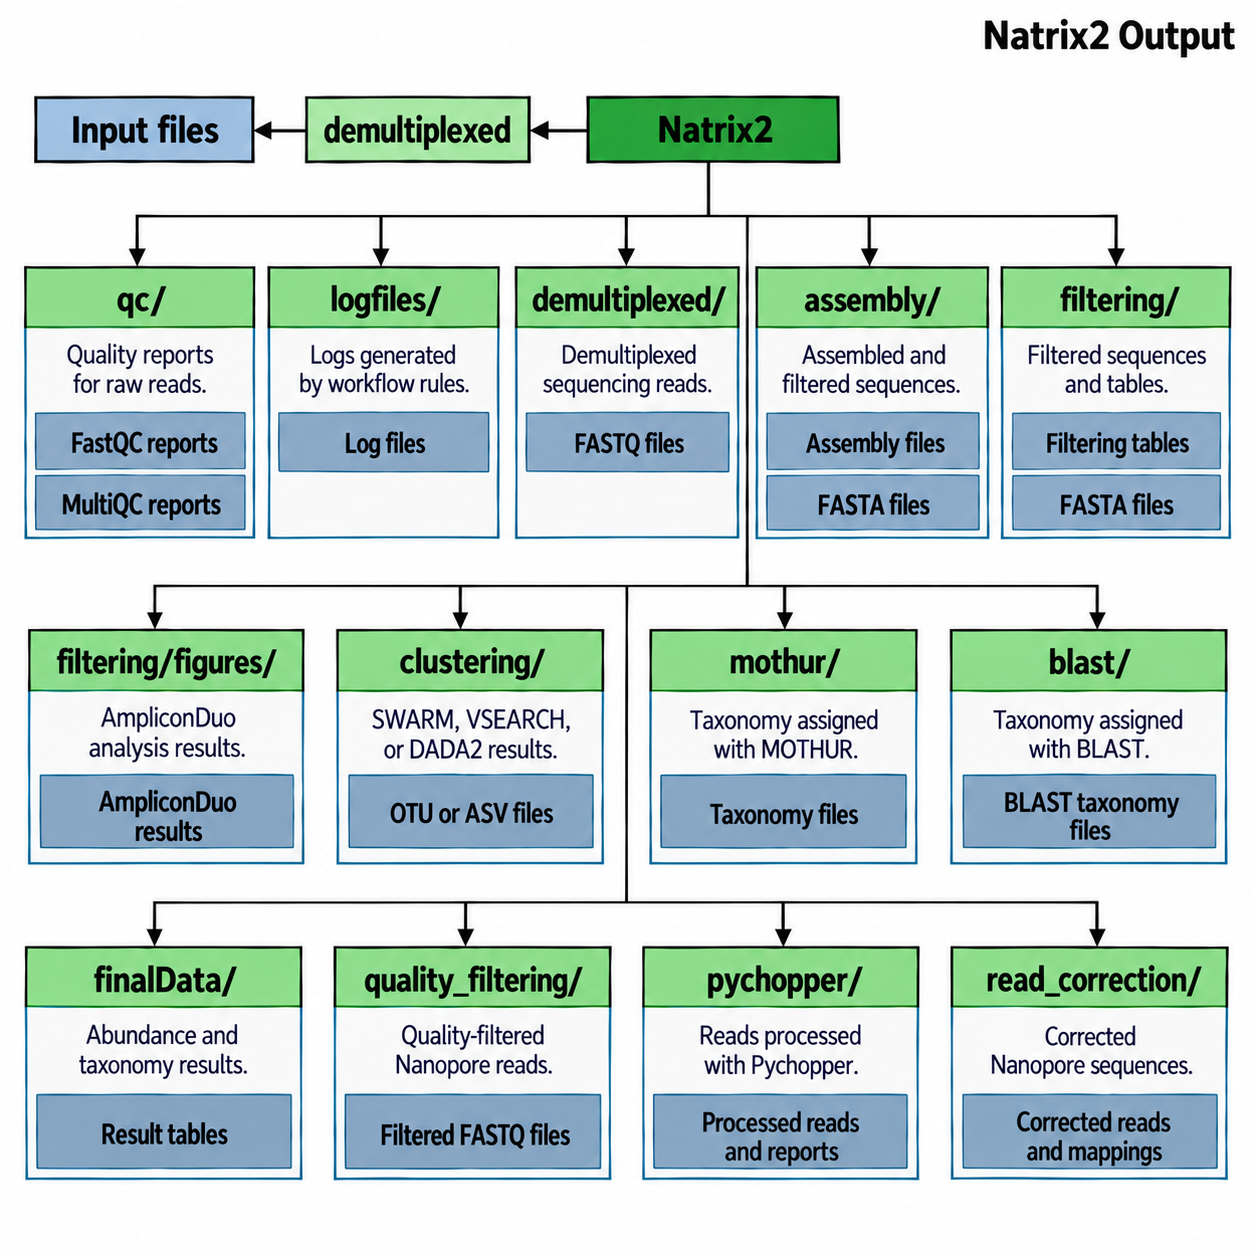
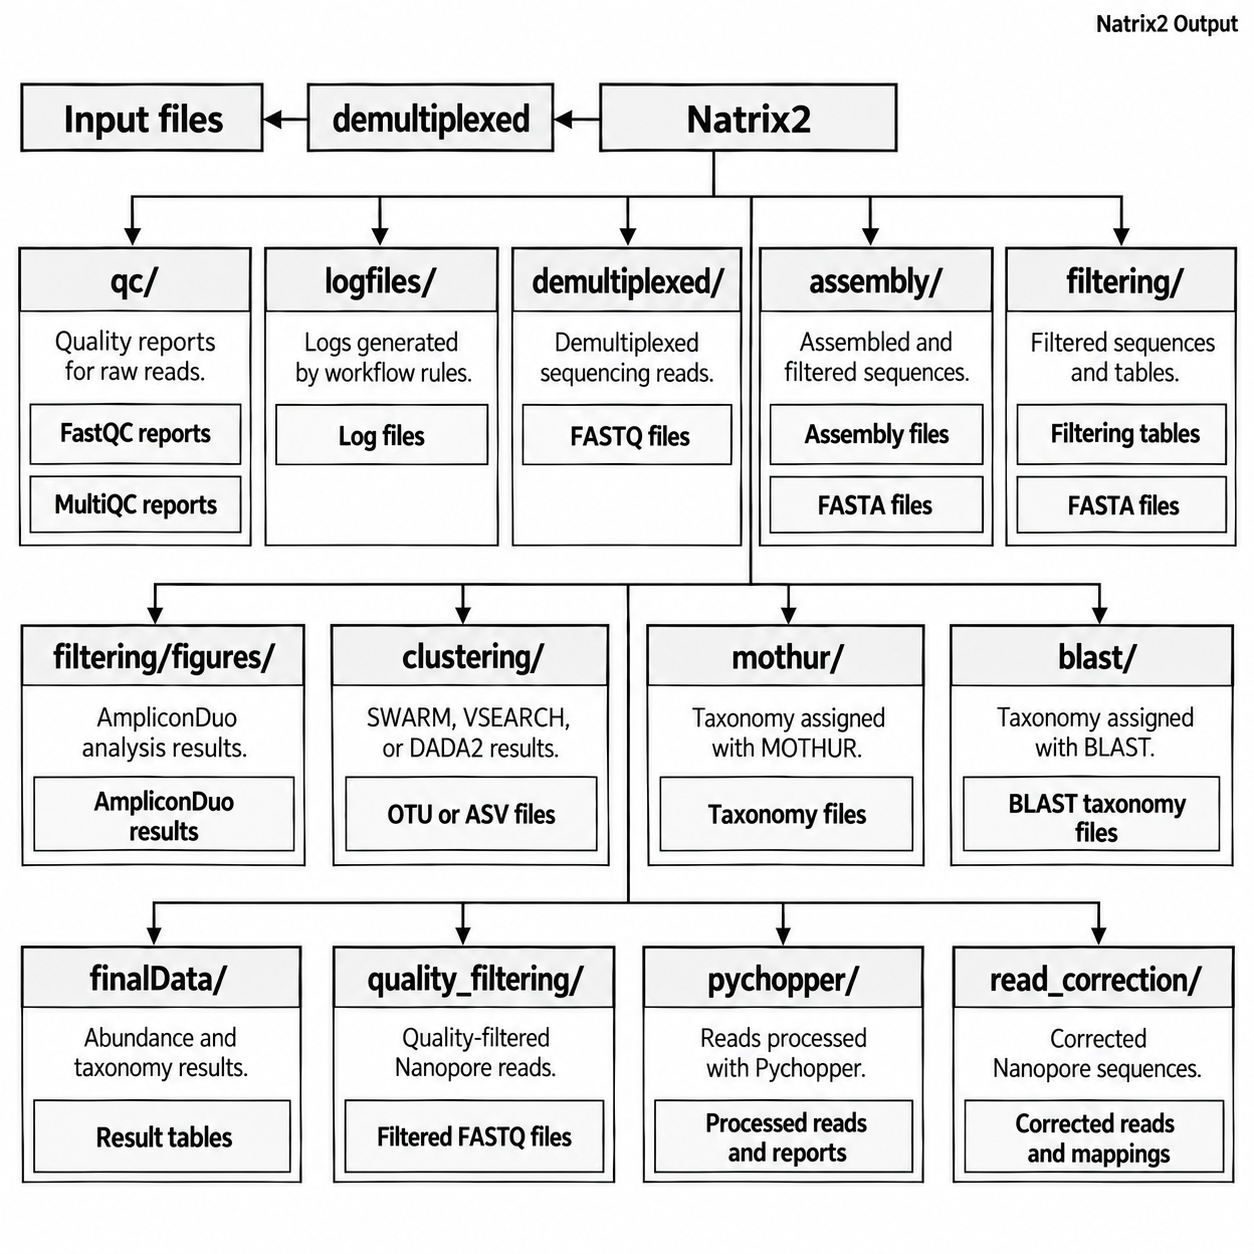
Update

diff --git a/README.md b/README.md
@@ -2,7 +2,7 @@
 <img src="documentation/images/lightmode/logo.png" alt="logo" width="500"/>
 </p>
 
-**Natrix2 — Bioinformatics Pipeline for Amplicon Data**
+**Natrix2 — Pipeline for Amplicon Data — [Citation](#citation)**
 
 ---
 
@@ -14,9 +14,13 @@ Natrix2 is an open-source bioinformatics pipeline for the preprocessing of long 
 
 ### Branch Selection
 
-To access the latest features and ongoing developments, it is recommended to use the [dev branch](https://github.com/dbeisser/Natrix2/tree/dev) of Natrix2, which contains recent updates and patches not yet available in the [main branch](https://github.com/dbeisser/Natrix2/tree/main). The main branch represents the stable version of the pipeline, providing validated and tested code suitable for routine analyses and reproducible workflows, while the dev branch is intended for testing and early access to new features.
+**Branches: [main](https://github.com/dbeisser/Natrix2/tree/main) — [dev](https://github.com/dbeisser/Natrix2/tree/dev)** — To access the latest features and ongoing developments, it is recommended to use the dev branch of Natrix2, which contains recent updates and patches not yet available in the main branch. The main branch represents the stable version of the pipeline, providing validated and tested code suitable for routine analyses and reproducible workflows, while the dev branch is intended for testing and early access to new features.
 
 ---
+
+### Natrix2 Modules
+
+Natrix2 consists of several interconnected modules covering the main steps of amplicon data processing. The available modules provide dedicated workflows for Illumina and Nanopore sequencing data.
 
 ![DAG of an example workflow](documentation/images/lightmode/combined_graph.png)
 **Fig. 1**: DAG of the Natrix2 workflow: Schematic representation of the Natrix2 workflow. The processing of two split samples using AmpliconDuo is depicted. The color scheme represents the main steps, dashed lines outline the OTU variant, and dotted lines outline the ASV variant of the workflow. Stars depict updates to the original Natrix workflow. Details on the ONT part are depicted in Fig. 2.
@@ -64,6 +68,7 @@ To access the latest features and ongoing developments, it is recommended to use
   Installation example (Debian/Ubuntu):
 
   ```bash
+  # Install GNU Screen
   apt-get install screen
   ```
 
@@ -76,11 +81,13 @@ Using a terminal multiplexer is strongly recommended for running Natrix2, especi
 Conda can be installed via the [Anaconda](https://www.anaconda.com/) or [Miniconda](https://conda.io/en/latest/miniconda.html) platforms, with Miniconda3 being recommended for most users; on Linux systems, it can be obtained using:
 
 ```shell
-wget https://repo.anaconda.com/miniconda/Miniconda3-latest-Linux-x86_64.sh # Download Miniconda3 installer
+# Download Miniconda3 installer
+wget https://repo.anaconda.com/miniconda/Miniconda3-latest-Linux-x86_64.sh
 ```
 
 ```shell
-bash Miniconda3-latest-Linux-x86_64.sh # Run Miniconda3 installer
+# Run Miniconda3 installer
+bash Miniconda3-latest-Linux-x86_64.sh
 ```
 
 Dependencies will be automatically installed using Conda environments and can be found in the corresponding `environment` files in the `envs` folder and the `natrix2.yaml` file in the root directory of the pipeline.
@@ -88,8 +95,18 @@ Dependencies will be automatically installed using Conda environments and can be
 **Important:** After setting up your `natrix2.yaml` environment, make sure to check the [Sequence Count](#sequence-count) section before starting the workflow. To install Natrix2, you need the open-source package management system Conda and, if you want to run Natrix2 using the accompanying `pipeline.sh` script, GNU Screen. After cloning this repository to a folder of your choice, it is recommended to create a general Natrix2 Conda environment using the provided `natrix2.yaml` file; from the main folder of the cloned repository, run the following command:
 
 ```shell
-conda env create -f natrix2.yaml # Create the Natrix2 Conda environment
+# Create the Natrix2 Conda environment
+conda env create -f natrix2.yaml
 ```
+
+## Test run with Natrix2
+
+**Important:** Before starting your own analysis, it is recommended to perform a test run to verify that Natrix2 and all required dependencies are installed and configured correctly. The test run provides a simple way to check whether the complete workflow can be executed successfully and helps identify potential installation or configuration issues before processing your own amplicon sequencing data.
+
+![Natrix2 Test run](documentation/images/lightmode/natrix2_testrun.png)
+**Fig. 3**: Schematic overview of the Natrix2 workflow, illustrating the test run used to verify the installation and dependencies before performing a full analysis of user-provided amplicon sequencing data.
+
+---
 
 Natrix2 includes example [primertables](#primertable) (`/primer_table`), [configuration files](#configuration) (`/config_presets`), and amplicon datasets (`/input_data`). To test Natrix2 with the provided example data, start the pipeline launcher and select the available test run (`illumina_testrun`):
 
@@ -108,22 +125,28 @@ Test run: illumina_testrun (example config)
 $ > illumina_testrun
 ```
 
-The pipeline will then start a screen session using the project name (here, example_data) as the session name and begin downloading dependencies for the workflow rules. To detach from the screen session, press `Ctrl+a, d` (first press Ctrl+a, then d). Common GNU Screen commands:
+## Managing GNU Screen sessions
+
+When Natrix2 is launched using `pipeline.sh`, the pipeline starts a GNU Screen session using the project name (e.g., `example_data`) as the session name. This allows the workflow to continue running in the background while the required dependencies for individual workflow rules are prepared automatically.
+
+Use the following commands to manage or reattach to an active Screen session:
 
 ```shell
-# Manage screen sessions
-screen -ls # List active screen sessions
-screen -r # Reattach to the most recent session
-screen -r <session_name> # Reattach to a specific session
-screen -d -r <session_name> # Force reattach to a session
+# Manage Screen sessions
+screen -ls                    # List active Screen sessions
+screen -r                     # Reattach to the most recent session
+screen -r <session_name>      # Reattach to a specific session
+screen -d -r <session_name>   # Force reattach to a session
 ```
 
-Basic key bindings inside a screen session:
+Basic key bindings inside a Screen session:
 
 ```text
-Ctrl+a, d # Detach from the current session
-Ctrl+a, k # Kill the current session
+Ctrl+a, d    # Detach from the current session
+Ctrl+a, k    # Terminate the current session
 ```
+
+**Important:** Make sure that the Natrix2 Conda environment `natrix2` is activated when managing or reattaching to Screen sessions. This ensures that the required Natrix2 commands and dependencies are available.
 
 ---
 
@@ -136,7 +159,7 @@ Before starting the workflow, it is recommended to verify the number of sequence
 
 The tool compares the specified threshold with the sequence count of each input file. If the sequence count falls below the defined threshold, a warning is displayed. Affected files should be removed from the input directory before starting the workflow to ensure proper execution.
 
-### Using the nseqc Tool
+## Using the nseqc Tool
 
 Navigate to the Natrix2 main directory and run the following command:
 
@@ -160,10 +183,11 @@ This tutorial provides a step-by-step guide for preparing input data and running
 <img src="documentation/images/lightmode/filename_2.png" alt="FASTQ file naming convention" width="550"/>
 </p>
 
-**Fig. 3**: Naming convention for FASTQ files
+**Fig. 4**: Naming convention for FASTQ files
 
 ```shell
-sample_unit_direction.fastq.gz  # sampleID, A/B, R1/R2
+# sampleID, A/B, R1/R2
+sample_unit_direction.fastq.gz
 ```
 
 with:
@@ -211,19 +235,7 @@ Alternatively, run a config from `config_presets`:
 $ > config_presets/...
 ```
 
-The pipeline will start a screen session using the selected project name as the session name and begin executing the workflow. Required dependencies for individual workflow rules are automatically prepared during execution. To detach from the current screen session, press `Ctrl+a, d` (first press `Ctrl+a`, then `d`). Use the following commands to manage or reattach to an active screen session:
-
-```shell
-# Manage screen sessions
-screen -ls # List active screen sessions
-screen -r # Reattach to the most recent session
-screen -r <session_name> # Reattach to a specific session
-screen -d -r <session_name> # Force reattach to a session
-```
-**Important:** Make sure that the Natrix2 Conda environment (`natrix2`) is activated
-when managing or reattaching to screen sessions. This ensures that all required
-commands and dependencies are available. To detach from a running session, use
-`Ctrl+a, d`. To terminate a screen session, use `Ctrl+a, k`.
+After selecting a configuration, Natrix2 starts the workflow using the specified project settings and processes the corresponding input data. Required workflow dependencies are prepared automatically, and individual processing steps are executed according to the selected configuration. If the workflow is interrupted, it can be restarted using the same configuration to continue from previously completed steps.
 
 ## Running Natrix2 Manually
 
@@ -257,6 +269,8 @@ Here, `<project>` refers to the project name and `<cores>` specifies the number 
 snakemake --use-conda --configfile <project>.yaml --cores <cores> -n
 ```
 
+The dry run checks the workflow configuration and determines which processing steps would be executed without actually running them. This can be used to identify configuration issues, missing input files, or unresolved dependencies before starting the full Natrix2 workflow.
+
 ## Docker or Docker Compose
 
 Detailed setup instructions are available in the [Docker manual](documentation/manuals/docker_manual.pdf).
@@ -279,6 +293,10 @@ Download the latest Natrix2 image from [Docker Hub](https://hub.docker.com/r/dbe
 docker pull dbeisser/natrix2:latest
 ```
 
+The Docker image provides a preconfigured Natrix2 environment with the required software and dependencies for running the workflow. Using the container ensures a consistent and reproducible setup across different systems without requiring the individual installation of workflow dependencies.
+
+---
+
 #### Environment Setup
 
 **Step 1:**  
@@ -292,6 +310,8 @@ Open the configuration file `config.yaml` with a text editor and adjust the para
 
 **Step 4:**  
 Define the required paths in `config.yaml` so that Natrix2 can locate the input data correctly. If your samples are stored in a subdirectory, specify the corresponding path (e.g., `filename: input/samples`).
+
+---
 
 **Example folder structure:**
 
@@ -362,6 +382,8 @@ docker-compose --version
 
 All container-related directories are located under `/srv/docker/`.
 
+---
+
 **Step 1:**  
 Copy your `samples/` directory, `config.yaml`, and `primer.csv` to
 `/srv/docker/natrix2_cont_1/input/`. If the directory does not exist, create the
@@ -404,6 +426,8 @@ container in the `docker-compose.yaml` file.
 Once everything is configured correctly, start the container using the command
 below. During the first launch, required reference databases will be downloaded to
 `natrix2_cont_1/database/`, which may take some time.
+
+---
 
 **If multiple containers are required, create the corresponding directories as defined in `docker-compose.yaml`.**
 
@@ -491,7 +515,7 @@ After the workflow has finished, all generated results are stored in the specifi
 <img src="documentation/images/lightmode/output_files_2.png" alt="ouput" width="700"/>
 </p>
 
-**Fig. 4:** Overview of the main Natrix2 output files.
+**Fig. 5:** Overview of the main Natrix2 output files.
 
 ---
 
@@ -725,7 +749,7 @@ split-sample approach is shown below.
 <img src="documentation/images/splitsample_approach.png" alt="split_sample" width="300"/>
 </p>
 
-**Fig. 5:** Schematic representation of the split-sample approach. Extracted DNA from
+**Fig. 6:** Schematic representation of the split-sample approach. Extracted DNA from
 a single environmental sample is split and separately amplified and sequenced. The
 filtering rule compares the resulting read sets between the two split-samples and
 filters out all sequences that do not occur in both. Image adapted from Lange et al.
@@ -763,7 +787,7 @@ subsequent analysis steps, as illustrated in Figure 6.
 <img src="documentation/images/swarm_clustering.jpg" alt="split_sample" width="500"/>
 </p>
 
-**Fig. 6:** Schematic representation of the greedy clustering approach and the
+**Fig. 7:** Schematic representation of the greedy clustering approach and the
 iterative Swarm approach. The greedy approach (a), which uses a global clustering
 threshold *t* and input order–dependent centroid selection, can result in closely
 related amplicons being assigned to different OTUs. In contrast, the iterative

diff --git a/CHANGELOG.md b/CHANGELOG.md
@@ -5,6 +5,16 @@ This document summarizes all notable changes to **Natrix2**, including updates, 
 
 ---
 
+### [2026-10-01]
+
+- Update `README.md` structure and content
+- Update image for Natrix2 output files
+- Add image for Natrix2 test run
+- Validate workflow execution using the provided test datasets
+- Update the Docker image with the latest changes
+
+---
+
 ### [2026-09-29]
 
 - Improve `LOG-System` for selected workflow files:
